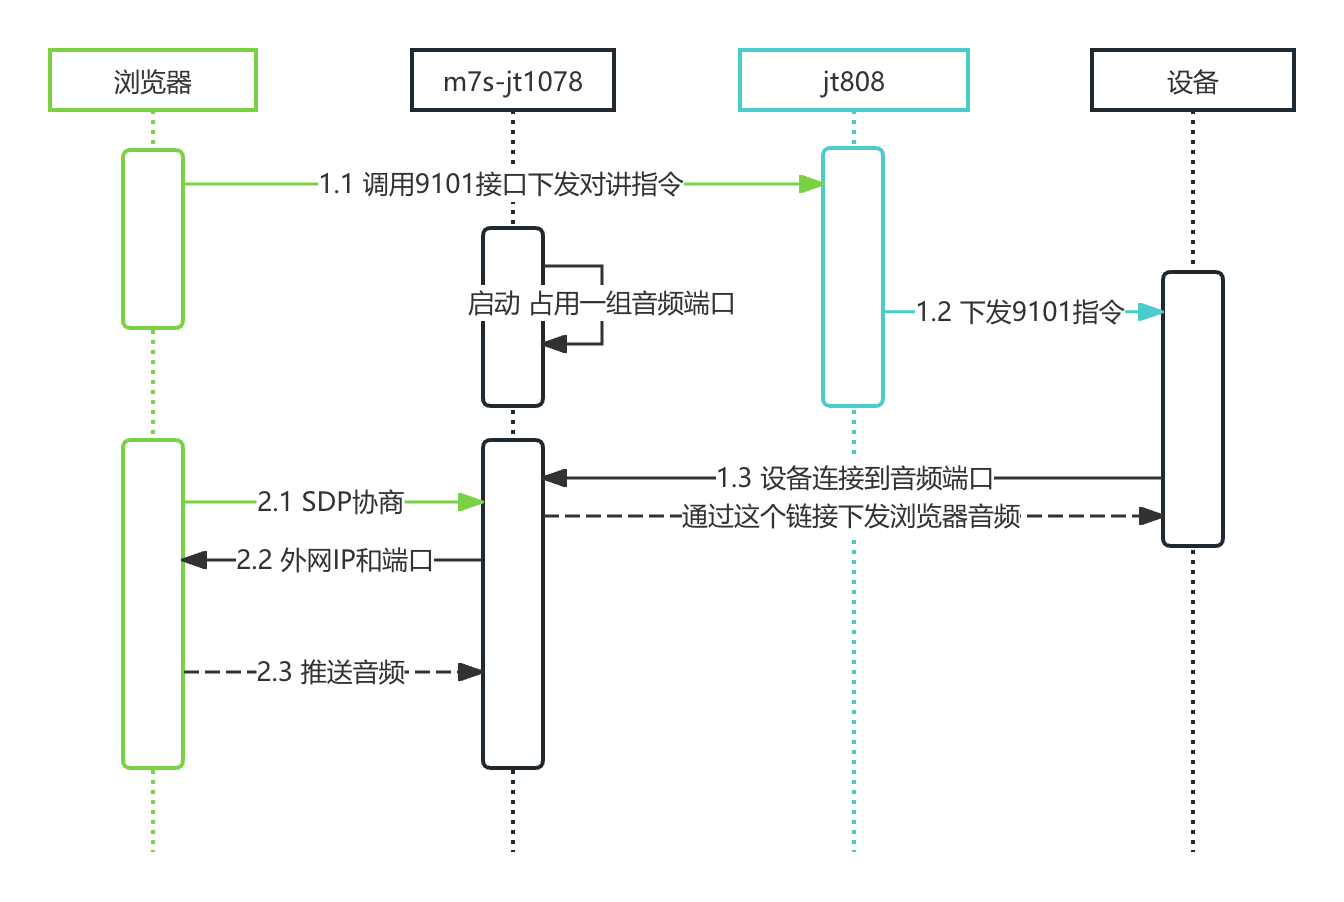
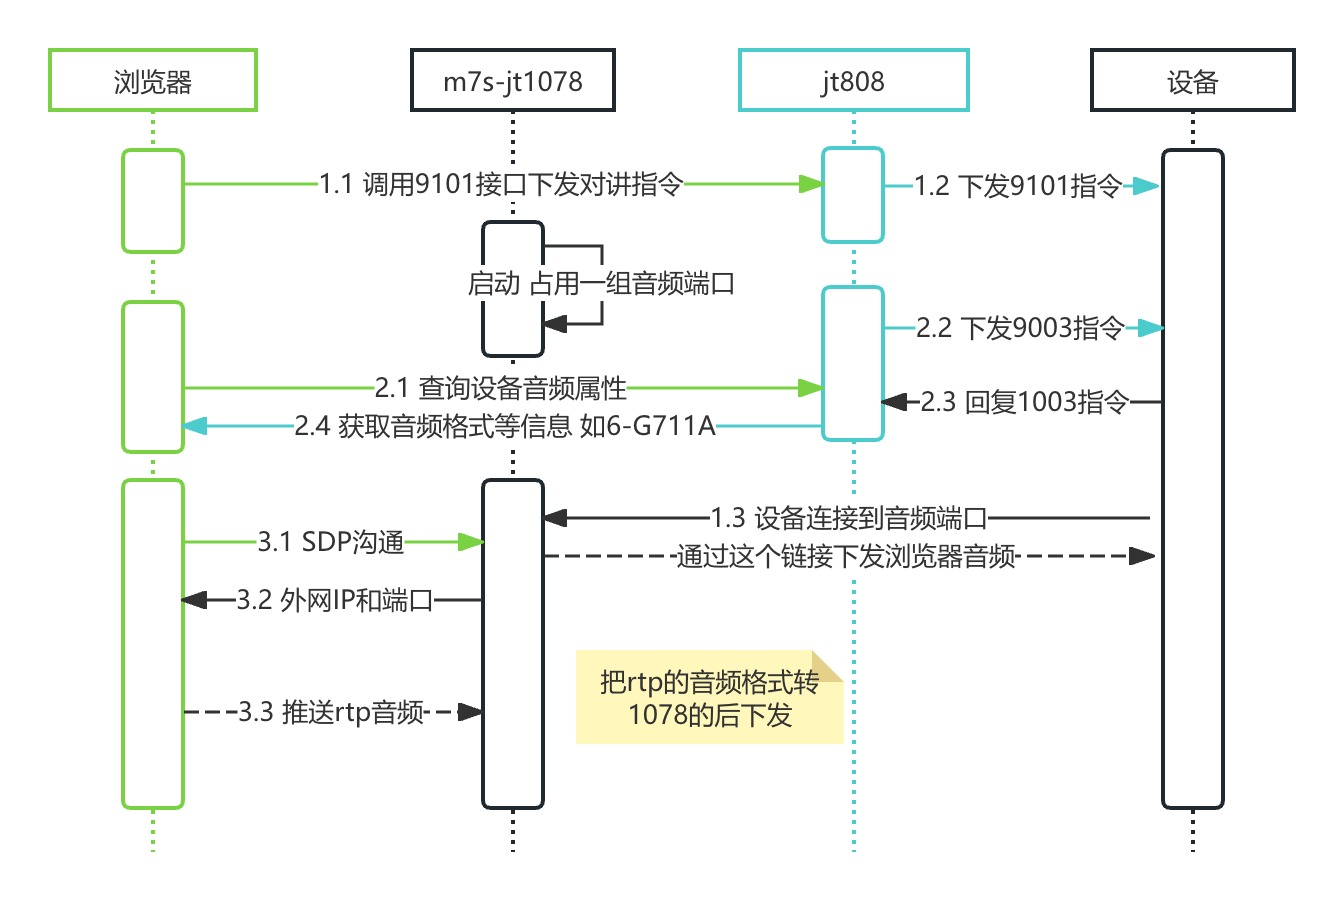
doc: 文档追加查询设备音频类型流程

diff --git a/example/intercom/README.md b/example/intercom/README.md
@@ -1,3 +1,92 @@
 <h1> intercom </h1>
 
-不知道为什么v5/v5.4.0版本无效 暂时使用go work去编译 使用v5.4.0的代码
+- 目前音频格式只支持G711A和G711U 如果需要其他的 需要自己fork使用ffmpeg转换
+- 测试的音视频 使用视频 需要音视频的 修改9101的下发参数为1 （0-音视频 1-视频 2-双向对讲 3-监听 4-中心广播 5-透传)
+
+![fork修改部分](../testdata/index.jpg)
+
+``` txt
+如图修改音频类型 和 音频数据的格式
+可参考如下代码 进行音频转换 G711A -> PCM
+```
+
+``` go
+func Test1(t *testing.T) {
+	ctx, cancel := context.WithCancel(context.Background())
+	// 创建 ffmpeg 命令
+	cmd := exec.CommandContext(ctx, "ffmpeg",
+		// pcm
+		"-f", "alaw", // 输入格式为 G.711a (PCM A-law)
+		"-ar", "8000", // 采样率，通常 G.711a 为 8000Hz
+		"-i", "pipe:", // 从标准输入读取数据
+		"-f", "s16le", // 输出格式为 PCM signed 16-bit little-endian
+		"-acodec", "pcm_s16le", // 音频解码器为 PCM 16位有符号小端格式
+		"-", // 输出到标准输出
+
+		// aac
+		//"-f", "alaw", // 输入格式为 G.711a (PCM A-law)
+		//"-ar", "8000", // 采样率，通常 G.711a 为 8000Hz
+		//"-i", "pipe:", // 从标准输入读取数据
+		//"-f", "adts", // 输出格式为 AAC (ADTS 封装)
+		//"-c:a", "aac", // 音频编码器为 AAC
+		//"-b:a", "8000k", // 音频比特率
+		//"-", // 输出到标准输出
+	)
+
+	// 创建输入管道
+	in, err := cmd.StdinPipe()
+	if err != nil {
+		panic(err)
+	}
+	complete := make(chan struct{})
+	go func() {
+		time.Sleep(time.Second)
+		// 模拟不断的获取浏览器的音频数据
+		audioData, _ := os.ReadFile("./audio.txt")
+		data, _ := hex.DecodeString(string(audioData))
+		// 文件里面的rtp包内容都是160个字节的
+		for i := 0; i < len(data); i += 160 {
+			in.Write(data[i : i+160])
+		}
+		in.Close()
+	}()
+
+	go func() {
+		// 其他异常情况 提前取消
+		time.Sleep(time.Hour)
+		cancel()
+	}()
+
+	// 创建输出缓冲区
+	var out bytes.Buffer
+	cmd.Stdout = &out
+
+	go func() {
+		time.Sleep(200 * time.Second)
+		// 模拟不断读取ffmpeg转换后的音频格式数据
+		data := make([]byte, 320)
+		var file, _ = os.OpenFile("output.txt", os.O_APPEND|os.O_CREATE|os.O_WRONLY, 0o644)
+		sum := 0
+		for {
+			if n, err := out.Read(data); err != nil {
+				if errors.Is(err, io.EOF) {
+					close(complete)
+				}
+				fmt.Println(err)
+				break
+			} else if n > 0 {
+				sum++
+				fmt.Println(n, sum, fmt.Sprintf("%x", data[:n]))
+				file.Write(data[:n])
+				file.Sync()
+			}
+		}
+	}()
+
+	fmt.Println(cmd.Start())
+	fmt.Println(cmd.String())
+	<-complete
+	fmt.Println(cmd.Wait())
+}
+
+```

diff --git a/README.md b/README.md
@@ -50,7 +50,51 @@ Content-Type: application/json
 }
 ```
 
-<h3>二、 浏览器webrtc下发音频给服务器</h3>
+<h3>二、 下发9003指令</h3>
+
+``` http
+### 对讲测试 设备连接到服务器端口
+POST https://124.221.30.46:12000/api/v1/jt808/9003
+Content-Type: application/json
+
+{
+  "key": "10088",
+  "data": {
+
+  }
+}
+
+```
+
+- 显示设备音频信息如下
+
+``` json
+{
+  "code": 200,
+  "msg": "success",
+  "data": {
+    "errDescribe": "",
+    "command": 36867,
+    "replyCommand": 4099,
+    "details": {
+      "enterAudioEncoding": 6,
+      "enterAudioChannelsNumber": 1,
+      "enterAudioSampleRate": 0,
+      "enterAudioSampleDigits": 1,
+      "audioFrameLength": 320,
+      "hasSupportedAudioOutput": 0,
+      "videoEncoding": 98,
+      "terminalSupportedMaxNumberOfAudioPhysicalChannels": 8,
+      "terminalSupportedMaxNumberOfVideoPhysicalChannels": 8
+    },
+    "terminalMessage": "7e1003000a0000000100884e0406010001014000620808ff7e",
+    "platformMessage": "7e900300000000000100880c796f7e",
+    "remark": "平台-查询终端音视频属性 -> 终端-上传音视频属性"
+  }
+}
+```
+
+<h3>三、 浏览器webrtc下发音频给服务器</h3>
 
 - SDP格式如下所示 额外增加一个组 把音频下发给这个组的
 
@@ -62,12 +106,15 @@ Content-Type: application/json
         Channel   uint8  `json:"channel"`
         AudioPort int    `json:"audioPort"`
     }
+    // EnterAudioEncoding 音频类型参数 根据jt1078-2016表12 2-G722 6-G711A 7-G711U
+    // 默认6-G711A
+    EnterAudioEncoding int `json:"enterAudioEncoding"`
   }
 ```
 
 - 服务器返回固定的外网IP和端口 ICE沟通可直接使用
 
-<h3>三、关闭对讲</h3>
+<h3>四、关闭对讲</h3>
 
 1. 浏览器端关闭对讲
 2. 下发9102指令 让设备结束对讲
@@ -106,7 +153,7 @@ jt1078:
   intercom:
     enable: true # 是否启用 用于双向对讲
     jt1078webrtc:
-      port: 12020 # 外网端口 用于浏览器webrtc把音频数据推到这个端口
+      port: 12020 # 外网UDP端口 用于浏览器webrtc把音频数据推到这个端口
       ip: 124.221.30.46 # 外网ip 用于SDP协商修改
     audioports: [12021, 12050] # 音频端口 [min,max]
     onjoinurl: "https://127.0.0.1:12000/api/v1/jt808/event/join-audio" # 设备连接到音频端口的回调
